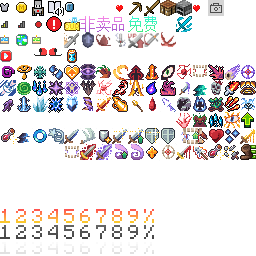
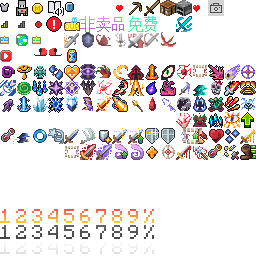
修复超能激战死亡复活后UI销毁问题，另外服装图片全部修改为正方形

Changed region(s): [[0.0625, 0.0, 0.1875, 0.0625]]

diff --git a/打包审核用mod.py b/打包审核用mod.py
@@ -1,5 +1,5 @@
 #!/usr/bin/env python3
-"""扫描本地目录并输出审核用行为包/资源包目录（不压缩）。"""
+"""扫描本地目录并输出审核用行为包/资源包。"""
 
 from __future__ import annotations
 
@@ -11,11 +11,12 @@ import shutil
 import stat
 import time
 
+ZIP = True
 
 TARGET_BEHAVIOR = "behavior_packs"
 TARGET_RESOURCE = "resource_packs"
 VALID_TYPES = {"data": TARGET_BEHAVIOR, "resources": TARGET_RESOURCE}
-REMOVABLE_SUFFIXES = {".zip", ".mcp"}
+REMOVABLE_SUFFIXES = {".zip"}
 
 
 def _rmtree_force(path: Path) -> None:
@@ -107,7 +108,12 @@ def read_pack_type(manifest_path: Path) -> str | None:
     return None
 
 
-def copy_pack(pack_dir: Path, output_root: Path, used_names: set[str]) -> Path:
+def copy_pack(
+    pack_dir: Path,
+    output_root: Path,
+    used_names: set[str],
+    zip_enabled: bool,
+) -> tuple[Path, int, list[Path]]:
     base_name = pack_dir.name
     dest_name = base_name
     if dest_name in used_names:
@@ -120,7 +126,18 @@ def copy_pack(pack_dir: Path, output_root: Path, used_names: set[str]) -> Path:
     if dest_dir.exists():
         _rmtree_force(dest_dir)
     shutil.copytree(pack_dir, dest_dir)
-    return dest_dir
+
+    removed_count, failed_files = remove_zip_and_mcp_files(dest_dir)
+    if not zip_enabled:
+        return dest_dir, removed_count, failed_files
+
+    archive_path = output_root / f"{dest_name}.zip"
+    if archive_path.exists() and not _safe_unlink(archive_path):
+        raise RuntimeError(f"无法覆盖旧压缩包（可能被占用）：{archive_path}")
+
+    shutil.make_archive(str(archive_path.with_suffix("")), "zip", root_dir=dest_dir)
+    _rmtree_force(dest_dir)
+    return archive_path, removed_count, failed_files
 
 
 def remove_zip_and_mcp_files(root: Path) -> tuple[int, list[Path]]:
@@ -160,6 +177,8 @@ def build_review_package(root: Path, audit_root: Path) -> None:
     behavior_count = 0
     resource_count = 0
     skipped = []
+    removed_count = 0
+    failed_files: list[Path] = []
 
     for pack_dir in pack_dirs:
         pack_type = read_pack_type(pack_dir / "manifest.json")
@@ -169,19 +188,24 @@ def build_review_package(root: Path, audit_root: Path) -> None:
 
         target_dir = behavior_dir if pack_type == "data" else resource_dir
         used_names = behavior_used_names if pack_type == "data" else resource_used_names
-        copy_pack(pack_dir, target_dir, used_names)
-        packaged.append((pack_dir.name, pack_type))
+        output_path, pack_removed_count, pack_failed_files = copy_pack(
+            pack_dir,
+            target_dir,
+            used_names,
+            ZIP,
+        )
+        removed_count += pack_removed_count
+        failed_files.extend(pack_failed_files)
+        packaged.append((pack_dir.name, pack_type, output_path.name))
         if pack_type == "data":
             behavior_count += 1
         else:
             resource_count += 1
 
-    removed_count, failed_files = remove_zip_and_mcp_files(audit_root)
-
     if packaged:
-        print("复制完成：")
-        for name, pack_type in packaged:
-            print(f"- {name} -> {pack_type}")
+        print("打包完成：")
+        for name, pack_type, output_name in packaged:
+            print(f"- {name} -> {pack_type}: {output_name}")
     else:
         print("未发现可打包包。")
     print(f"总计：行为包 {behavior_count} 个，资源包 {resource_count} 个")